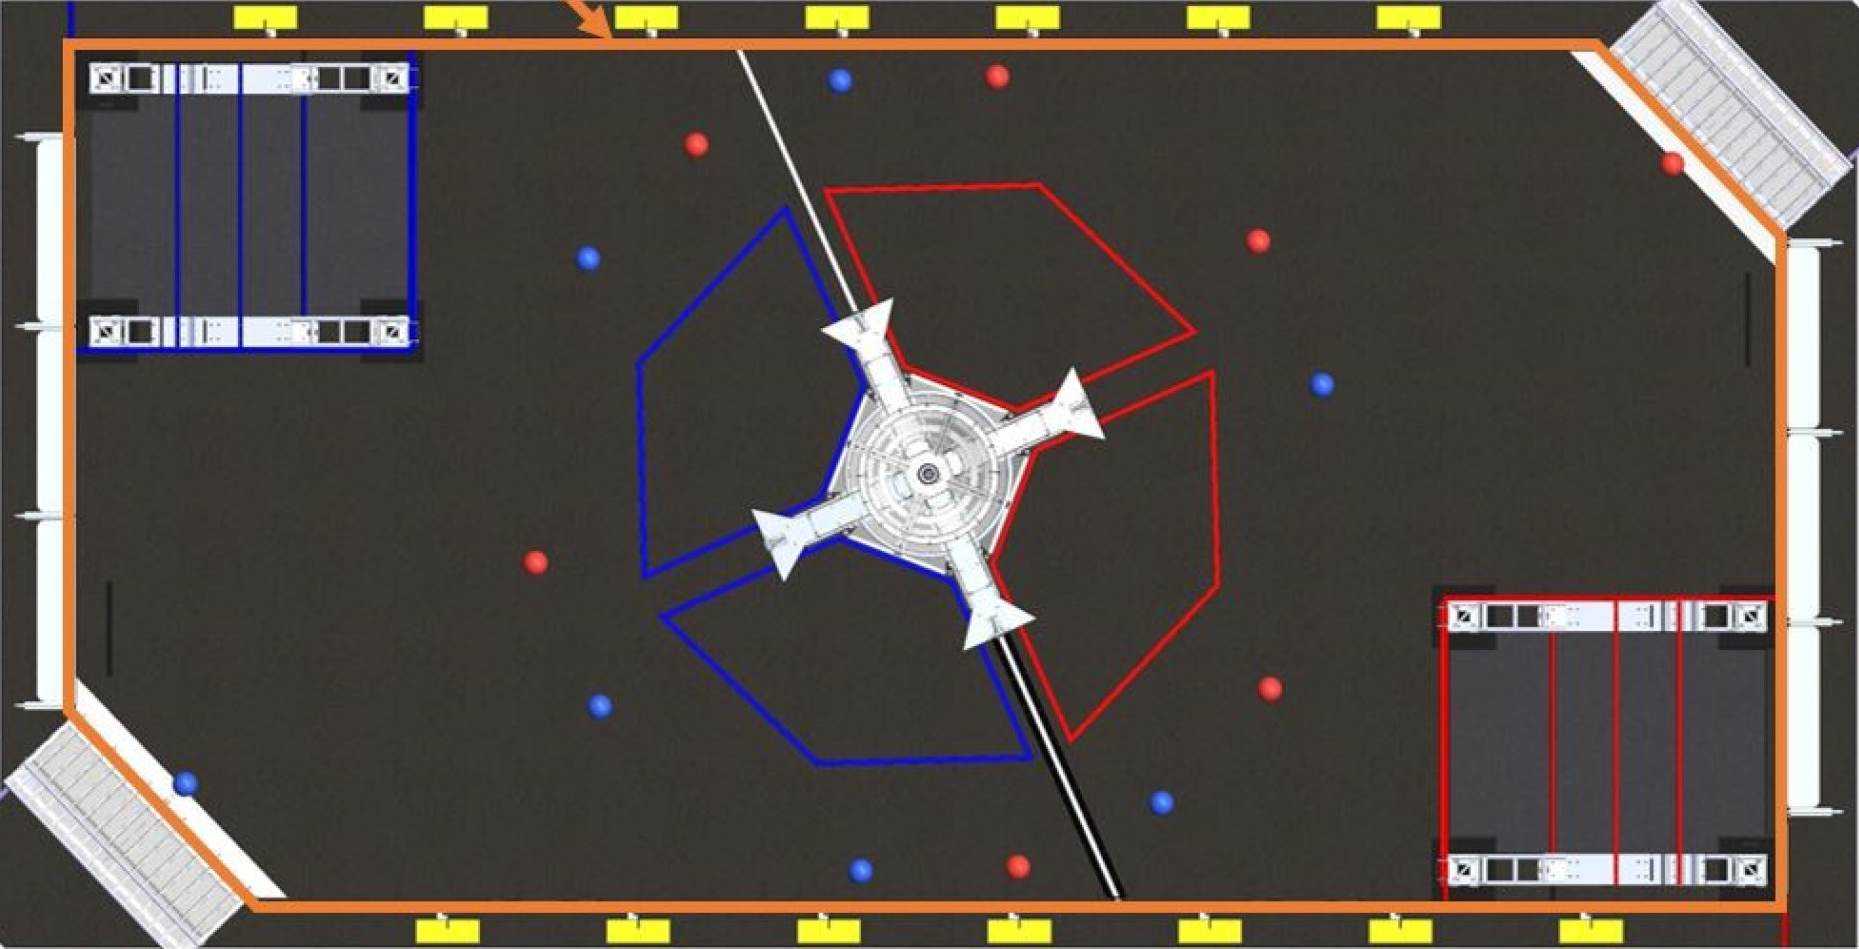
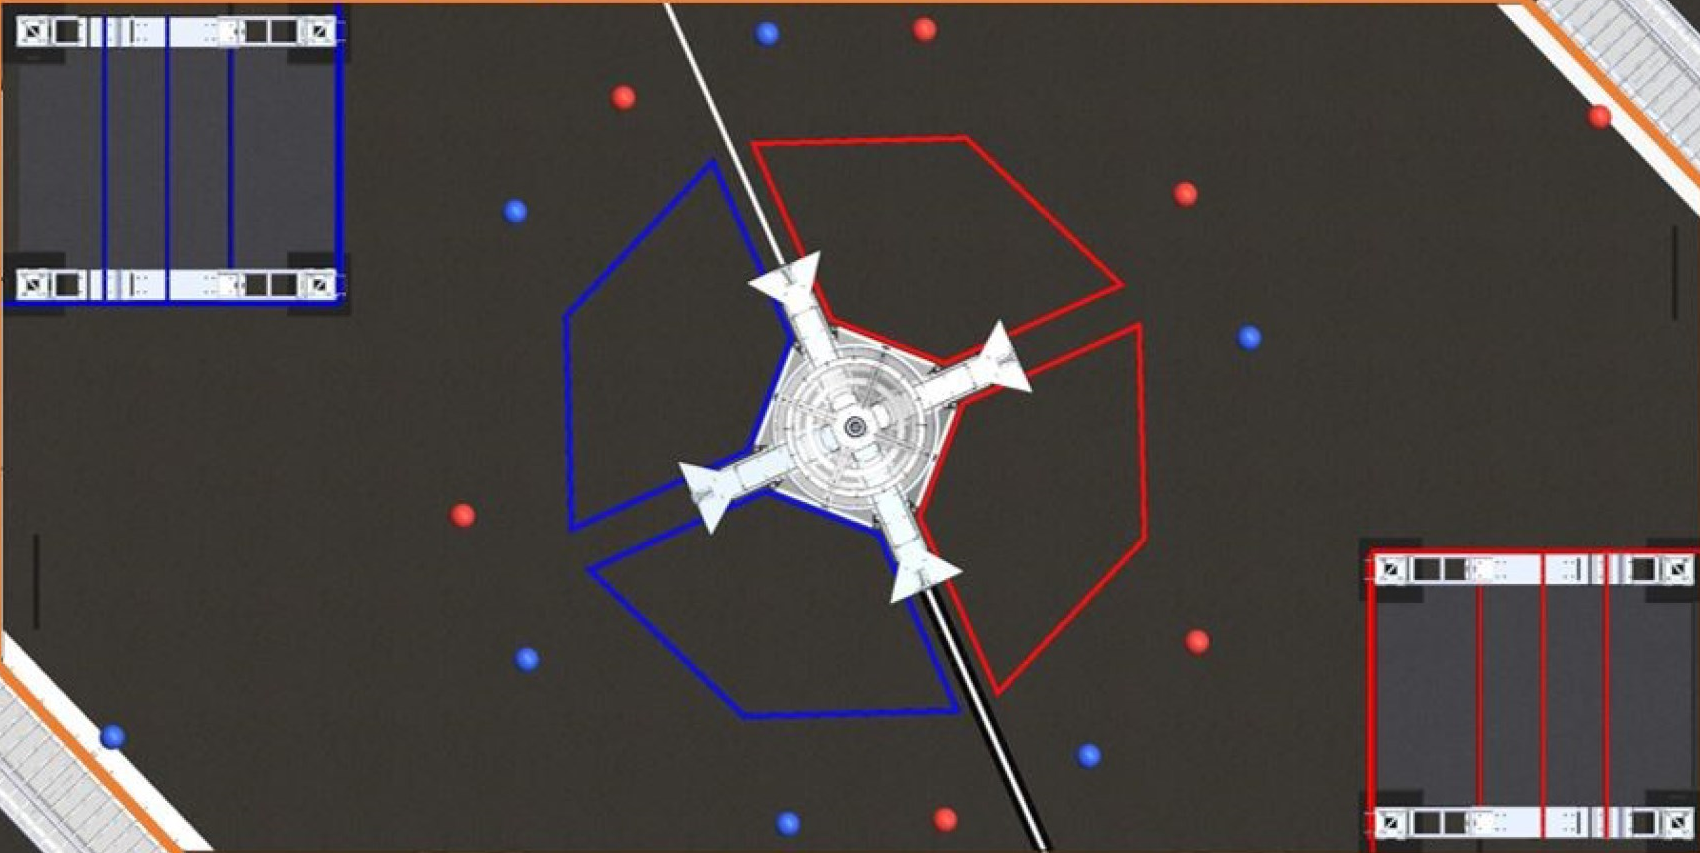
crop field to perfection, put simple path for testing, tune a little more

diff --git a/src/main/kotlin/frc/team449/control/auto/AutoDriveCommand.kt b/src/main/kotlin/frc/team449/control/auto/AutoDriveCommand.kt
@@ -5,7 +5,6 @@ import edu.wpi.first.math.controller.HolonomicDriveController
 import edu.wpi.first.math.controller.RamseteController
 import edu.wpi.first.math.geometry.Pose2d
 import edu.wpi.first.math.kinematics.ChassisSpeeds
-import edu.wpi.first.math.trajectory.Trajectory
 import edu.wpi.first.wpilibj.Timer
 import edu.wpi.first.wpilibj.shuffleboard.EventImportance
 import edu.wpi.first.wpilibj.shuffleboard.Shuffleboard
@@ -23,7 +22,7 @@ import frc.team449.control.holonomic.HolonomicDrive
  */
 class AutoDriveCommand<T : DriveSubsystem>(
   val drivetrain: T,
-  val trajectory: Trajectory,
+  val trajectory: PathPlannerTrajectory,
   val controller: (Pose2d, PathPlannerTrajectory.PathPlannerState) -> ChassisSpeeds,
   val resetPose: Boolean
 ) : CommandBase() {
@@ -47,7 +46,7 @@ class AutoDriveCommand<T : DriveSubsystem>(
   override fun execute() {
     val desiredState =
       drivetrain.set(
-        controller(drivetrain.pose, (trajectory.sample(Timer.getFPGATimestamp() - startTime) as PathPlannerTrajectory.PathPlannerState))
+        controller(drivetrain.pose, trajectory.sample(Timer.getFPGATimestamp() - startTime) as PathPlannerTrajectory.PathPlannerState)
       )
   }
 
@@ -95,7 +94,7 @@ class AutoDriveCommand<T : DriveSubsystem>(
 
     fun differentialDriveCommand(
       drivetrain: DifferentialDrive,
-      trajectory: Trajectory,
+      trajectory: PathPlannerTrajectory,
       resetPose: Boolean
     ): AutoDriveCommand<DifferentialDrive> {
       val controller = RamseteController()

diff --git a/src/main/kotlin/frc/team449/robot2022/auto/AutoConstants.kt b/src/main/kotlin/frc/team449/robot2022/auto/AutoConstants.kt
@@ -8,14 +8,14 @@ import edu.wpi.first.math.trajectory.TrapezoidProfile
 object AutoConstants {
 
   /** Driving Config */
-  const val MAX_VEL = 2.0
+  const val MAX_VEL = 4.24
   const val MAX_ACC = 2.0
-  private const val MAX_ROTVEL = 2.26
-  const val MAX_ROTACC = 2.26
+  private const val MAX_ROTVEL = 3.26
+  private const val MAX_ROTACC = 3.26
 
   /** PID gains */
-  private const val TRANSLATION_KP = 1.0
-  private const val ROTATION_KP = 1.0
+  private const val TRANSLATION_KP = 1.5
+  private const val ROTATION_KP = 3.0
 
   /** PID controllers for each degree of freedom */
   val ROT_CONTROLLER = ProfiledPIDController(

diff --git a/src/main/kotlin/frc/team449/robot2022/RobotContainer2022.kt b/src/main/kotlin/frc/team449/robot2022/RobotContainer2022.kt
@@ -161,7 +161,7 @@ class RobotContainer2022() : RobotContainerBase() {
 
   private fun addRoutines(): SendableChooser<AutoRoutine> {
     val chooser = SendableChooser<AutoRoutine>()
-    val exampleAuto = Example("wishes", drive)
+    val exampleAuto = Example("Example", drive)
 //    val wpilibAuto = Pose2dAuto(drive, 2.0, 2.0)
     chooser.setDefaultOption("Example Auto", exampleAuto.routine())
 

diff --git a/src/main/kotlin/frc/team449/control/holonomic/SwerveDrive.kt b/src/main/kotlin/frc/team449/control/holonomic/SwerveDrive.kt
@@ -63,7 +63,7 @@ open class SwerveDrive(
 
     SwerveDriveKinematics.desaturateWheelSpeeds(
       desiredModuleStates,
-      this.maxLinearSpeed
+      4.267
     )
 
     for (i in this.modules.indices) {
